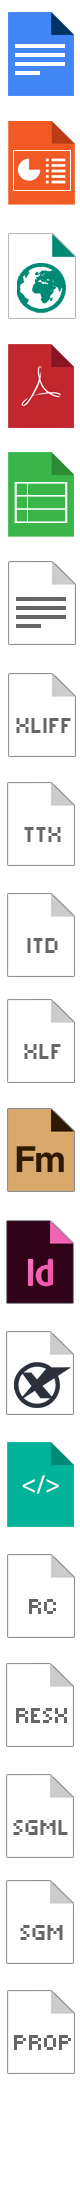
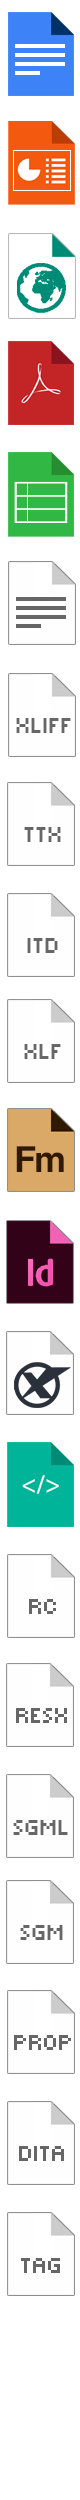
updated css of supported file formats table

diff --git a/lib/view/APIDoc.html b/lib/view/APIDoc.html
@@ -686,85 +686,85 @@
                             <table class="tablestats fileformat" width="100%" border="0" cellspacing="0" cellpadding="0">
                         
                                 <thead>
-                                <tr><th>Office</th>
-                                    <th>Web</th>
-                                    <th>Interchange Formats</th>
-                                    <th>Desktop Publishing</th>
-                                    <th>Localization</th>
+                                <tr><th width="40%">Office</th>
+                                    <th width="15%">Web</th>
+                                    <th width="15%">Interchange Formats</th>
+                                    <th width="15%">Desktop Publishing</th>
+                                    <th width="15%">Localization</th>
                                 </tr></thead>
                                 <tbody><tr>
                                     <td>
                                         <ul class="office">
-                                            <li>doc</li>
-                                            <li>dot</li>
-                                            <li>docx</li>
-                                            <li>dotx</li>
-                                            <li>docm</li>
-                                            <li>dotm</li>
-                                            <li>pdf</li>
-                                            <li>xls</li>
-                                            <li>xlt</li>
-                                            <li>xlsm</li>
-                                            <li>xlsx</li>
-                                            <li>xltx</li>
-                                            <li>pot</li>
-                                            <li>pps</li>
-                                            <li>ppt</li>
-                                            <li>potm</li>
-                                            <li>potx</li>
-                                            <li>ppsm</li>
-                                            <li>ppsx</li>
-                                            <li>pptm</li>
-                                            <li>pptx</li>
-                                            <li>odp</li>
-                                            <li>ods</li>
-                                            <li>odt</li>
-                                            <li>sxw</li>
-                                            <li>sxc</li>
-                                            <li>sxi</li>
-                                            <li>txt</li>
-                                            <li>csv</li>
-                                            <li>xml</li>
+                                            <li><span class="extdoc">doc</span></li>
+                                            <li><span class="extdoc">dot</span></li>
+                                            <li><span class="extdoc">docx</span></li>
+                                            <li><span class="extdoc">dotx</span></li>
+                                            <li><span class="extdoc">docm</span></li>
+                                            <li><span class="extdoc">dotm</span></li>
+                                            <li><span class="extdoc">odt</span></li>
+                                            <li><span class="extdoc">sxw</span></li>
+                                            <li><span class="exttxt">txt</span></li>
+                                            <li><span class="extpdf">pdf</span></li>
+                                            <li><span class="extppt">pot</span></li>
+                                            <li><span class="extppt">pps</span></li>
+                                            <li><span class="extppt">ppt</span></li>
+                                            <li><span class="extppt">potm</span></li>
+                                            <li><span class="extppt">potx</span></li>
+                                            <li><span class="extppt">ppsm</span></li>
+                                            <li><span class="extppt">ppsx</span></li>
+                                            <li><span class="extppt">pptm</span></li>
+                                            <li><span class="extppt">pptx</span></li>
+                                            <li><span class="extppt">odp</span></li>
+                                            <li><span class="extppt">sxi</span></li>
+                                            <li><span class="extxls">ods</span></li>
+                                            <li><span class="extxls">sxc</span></li>
+                                            <li><span class="extxls">xls</span></li>
+                                            <li><span class="extxls">xlt</span></li>
+                                            <li><span class="extxls">xlsm</span></li>
+                                            <li><span class="extxls">xlsx</span></li>
+                                            <li><span class="extxls">xltx</span></li>
+                                            <li><span class="extxls">csv</span></li>
+                                            <li><span class="extxml">xml</span></li>
                                         </ul>
                                     </td>
                                     <td>
                                         <ul>
-                                            <li>htm</li>
-                                            <li>html</li>
-                                            <li>xhtml</li>
-                                            <li>xml</li>
+                                            <li><span class="exthtm">htm</span></li>
+                                            <li><span class="exthtm">html</span></li>
+                                            <li><span class="exthtm">xhtml</span></li>
+                                            <li><span class="extxml">xml</span></li>
                                         </ul>
                                     </td>
                                     <td>
                                         <ul>
-                                            <li>xliff</li>
-                                            <li>sdlxliff</li>
-                                            <li>ttx</li>
-                                            <li>itd</li>
-                                            <li>xlf</li>
+                                            <li><span class="extxif">xliff</span></li>
+                                            <li><span class="extxif">sdlxliff</span></li>
+                                            <li><span class="extttx">ttx</span></li>
+                                            <li><span class="extitd">itd</span></li>
+                                            <li><span class="extxlf">xlf</span></li>
                                         </ul>
                                     </td>
                                     <td>
                                         <ul>
-                                            <li>mif</li>
-                                            <li>inx</li>
-                                            <li>idml</li>
-                                            <li>icml</li>
-                                            <li>xtg</li>
-                                            <li>tag</li>
-                                            <li>xml</li>
-                                            <li>dita</li>
+                                            <li><span class="extmif">mif</span></li>
+                                            <li><span class="extidd">inx</span></li>
+                                            <li><span class="extidd">idml</span></li>
+                                            <li><span class="extidd">icml</span></li>
+                                            <li><span class="extqxp">xtg</span></li>
+                                            <li><span class="exttag">tag</span></li>
+                                            <li><span class="extxml">xml</span></li>
+                                            <li><span class="extdit">dita</span></li>
                                         </ul>
                                     </td>
                                     <td>
                                         <ul>
-                                            <li>properties</li>
-                                            <li>rc</li>
-                                            <li>resx</li>
-                                            <li>xml</li>
-                                            <li>dita</li>
-                                            <li>sgml</li>
-                                            <li>sgm</li>
+                                            <li><span class="extpro">properties</span></li>
+                                            <li><span class="extrcc">rc</span></li>
+                                            <li><span class="extres">resx</span></li>
+                                            <li><span class="extxml">xml</span></li>
+                                            <li><span class="extdit">dita</span></li>
+                                            <li><span class="extsgl">sgml</span></li>
+                                            <li><span class="extsgm">sgm</span></li>
                                         </ul>
                                     </td>
                                 </tr>

diff --git a/public/css/common.css b/public/css/common.css
@@ -777,25 +777,27 @@ section.currSearchSegment mark.searchMarker
 	
 	
 .extdoc {background: url(../img/matecat_file_icons.png) 6px 0 no-repeat !important;} /* .doc, .dot, . docx, .dotx, .docm, .dotm, .odt, .sxw*/
-.extppt {background: url(../img/matecat_file_icons.png) 6px -36px no-repeat !important;} /* .pot, .pps, .ppt, .potm, .potx, .ppsm, .ppsx, .pptm, .pptx, .odp, .sxi*/
-.exthtm {background: url(../img/matecat_file_icons.png) 6px -72px no-repeat !important;} /* .htm, .html */
-.extpdf {background: url(../img/matecat_file_icons.png) 6px -106px no-repeat !important;} /* .pdf */
+.extppt {background: url(../img/matecat_file_icons.png) 6px -34px no-repeat !important;} /* .pot, .pps, .ppt, .potm, .potx, .ppsm, .ppsx, .pptm, .pptx, .odp, .sxi*/
+.exthtm {background: url(../img/matecat_file_icons.png) 6px -70px no-repeat !important;} /* .htm, .html */
+.extpdf {background: url(../img/matecat_file_icons.png) 6px -104px no-repeat !important;} /* .pdf */
 .extxls {background: url(../img/matecat_file_icons.png) 6px -140px no-repeat !important;} /* .xls, .xlt, .xlsm, .xlsx, .xltx, .ods, .sxc, .csv */
 .exttxt {background: url(../img/matecat_file_icons.png) 6px -172px no-repeat !important;} /* .txt */
 .extxif {background: url(../img/matecat_file_icons.png) 6px -208px no-repeat !important;} /* .xliff */
 .extttx {background: url(../img/matecat_file_icons.png) 6px -242px no-repeat !important;} /* .ttx */
 .extitd {background: url(../img/matecat_file_icons.png) 6px -276px no-repeat !important;} /* .itd */
 .extxlf {background: url(../img/matecat_file_icons.png) 6px -310px no-repeat !important;} /* .xlf */
-.extmif {background: url(../img/matecat_file_icons.png) 6px -344px no-repeat !important;} /* .mif */
-.extidd {background: url(../img/matecat_file_icons.png) 6px -380px no-repeat !important;} /* .idml */
-.extqxp {background: url(../img/matecat_file_icons.png) 6px -414px no-repeat !important;} /* .xtg */
+.extmif {background: url(../img/matecat_file_icons.png) 6px -342px no-repeat !important;} /* .mif */
+.extidd {background: url(../img/matecat_file_icons.png) 6px -378px no-repeat !important;} /* .idml */
+.extqxp {background: url(../img/matecat_file_icons.png) 6px -412px no-repeat !important;} /* .xtg */
 .extxml {background: url(../img/matecat_file_icons.png) 6px -446px no-repeat !important;} /* .xml */
 .extrcc {background: url(../img/matecat_file_icons.png) 6px -484px no-repeat !important;} /* .rc */
-.extres {background: url(../img/matecat_file_icons.png) 6px -518px no-repeat !important;} /* .resx */
+.extres {background: url(../img/matecat_file_icons.png) 6px -516px no-repeat !important;} /* .resx */
 .extsgl {background: url(../img/matecat_file_icons.png) 6px -552px no-repeat !important;} /* .sgml */
-.extsgm {background: url(../img/matecat_file_icons.png) 6px -586px no-repeat !important;}  /* .sgm */
-.extpro {background: url(../img/matecat_file_icons.png) 6px -620px no-repeat !important;} /* .properties */
-	
+.extsgm {background: url(../img/matecat_file_icons.png) 6px -584px no-repeat !important;}  /* .sgm */
+.extpro {background: url(../img/matecat_file_icons.png) 6px -618px no-repeat !important;} /* .properties */
+.extdit {background: url(../img/matecat_file_icons.png) 6px -652px no-repeat !important;} /* .dit */
+.exttag {background: url(../img/matecat_file_icons.png) 6px -686px no-repeat !important;} /* .tag */
+
 #jobMenu span {height: 25px;
 padding: 5px;
 margin: 4px 0 0px 7px;
@@ -815,24 +817,27 @@ only screen and (in-resolution: 2dppx) {
 
 
 .extdoc {background: url(../img/matecat_file_icons2x.png) 6px 0 no-repeat !important;} /* .doc, .dot, . docx, .dotx, .docm, .dotm, .odt, .sxw*/
-.extppt {background: url(../img/matecat_file_icons2x.png) 6px -36px no-repeat !important;} /* .pot, .pps, .ppt, .potm, .potx, .ppsm, .ppsx, .pptm, .pptx, .odp, .sxi*/
-.exthtm {background: url(../img/matecat_file_icons2x.png) 6px -72px no-repeat !important;} /* .htm, .html */
-.extpdf {background: url(../img/matecat_file_icons2x.png) 6px -106px no-repeat !important;} /* .pdf */
-.extxls {background: url(../img/matecat_file_icons2x.png) 6px -140px no-repeat !important;} /* .xls, .xlt, .xlsm, .xlsx, .xltx, .ods, .sxc, .csv */
+.extppt {background: url(../img/matecat_file_icons2x.png) 6px -34px no-repeat !important;} /* .pot, .pps, .ppt, .potm, .potx, .ppsm, .ppsx, .pptm, .pptx, .odp, .sxi*/
+.exthtm {background: url(../img/matecat_file_icons2x.png) 6px -70px no-repeat !important;} /* .htm, .html */
+.extpdf {background: url(../img/matecat_file_icons2x.png) 6px -104px no-repeat !important;} /* .pdf */
+.extxls {background: url(../img/matecat_file_icons2x.png) 6px -138px no-repeat !important;} /* .xls, .xlt, .xlsm, .xlsx, .xltx, .ods, .sxc, .csv */
 .exttxt {background: url(../img/matecat_file_icons2x.png) 6px -172px no-repeat !important;} /* .txt */
 .extxif {background: url(../img/matecat_file_icons2x.png) 6px -208px no-repeat !important;} /* .xliff */
 .extttx {background: url(../img/matecat_file_icons2x.png) 6px -242px no-repeat !important;} /* .ttx */
 .extitd {background: url(../img/matecat_file_icons2x.png) 6px -276px no-repeat !important;} /* .itd */
 .extxlf {background: url(../img/matecat_file_icons2x.png) 6px -310px no-repeat !important;} /* .xlf */
-.extmif {background: url(../img/matecat_file_icons2x.png) 6px -344px no-repeat !important;} /* .mif */
-.extidd {background: url(../img/matecat_file_icons2x.png) 6px -380px no-repeat !important;} /* .idml */
-.extqxp {background: url(../img/matecat_file_icons2x.png) 6px -414px no-repeat !important;} /* .xtg */
+.extmif {background: url(../img/matecat_file_icons2x.png) 6px -342px no-repeat !important;} /* .mif */
+.extidd {background: url(../img/matecat_file_icons2x.png) 6px -378px no-repeat !important;} /* .idml */
+.extqxp {background: url(../img/matecat_file_icons2x.png) 6px -412px no-repeat !important;} /* .xtg */
 .extxml {background: url(../img/matecat_file_icons2x.png) 6px -446px no-repeat !important;} /* .xml */
-.extrcc {background: url(../img/matecat_file_icons2x.png) 6px -484px no-repeat !important;} /* .rc */
-.extres {background: url(../img/matecat_file_icons2x.png) 6px -518px no-repeat !important;} /* .resx */
-.extsgl {background: url(../img/matecat_file_icons2x.png) 6px -552px no-repeat !important;} /* .sgml */
-.extsgm {background: url(../img/matecat_file_icons2x.png) 6px -586px no-repeat !important;}  /* .sgm */
-.extpro {background: url(../img/matecat_file_icons2x.png) 6px -620px no-repeat !important;} /* .properties */
+.extrcc {background: url(../img/matecat_file_icons2x.png) 6px -482px no-repeat !important;} /* .rc */
+.extres {background: url(../img/matecat_file_icons2x.png) 6px -516px no-repeat !important;} /* .resx */
+.extsgl {background: url(../img/matecat_file_icons2x.png) 6px -550px no-repeat !important;} /* .sgml */
+.extsgm {background: url(../img/matecat_file_icons2x.png) 6px -584px no-repeat !important;}  /* .sgm */
+.extpro {background: url(../img/matecat_file_icons2x.png) 6px -618px no-repeat !important;} /* .properties */
+.extdit {background: url(../img/matecat_file_icons2x.png) 6px -652px no-repeat !important;} /* .dit */
+.exttag {background: url(../img/matecat_file_icons2x.png) 6px -686px no-repeat !important;} /* .tag */
+
 body.cattool #jobMenu li a
 {
 	background-size: 25px !important;

diff --git a/public/css/manage.css b/public/css/manage.css
@@ -27,7 +27,7 @@ h3{margin:0px 0 0 0;padding:0;font-size:18px;color:#999999 !important;font-weigh
 .tablestats  tr:hover{background:#f7f8f9}
 .tablestats{border-top:1px solid #ccc;margin-bottom:40px;-moz-box-shadow: 0 1px 2px #ccc;background:#fff}
 .tablestats.continue{margin-bottom:4px !important;}
-.logo{float:left;border:0;background:url(../img/logo.png) 0px 0px no-repeat;width:145px;height:31px; background-size: 130px 26px;}
+.logo{margin-top:6px!important;}
 
 .error-symbol{background:url(../img/red-error-symbol.png) 0 0 no-repeat; position:absolute;margin:42px 0 0 -30px;display:block;width:23px;height:23px;background-size:21px 19px}
 
@@ -650,6 +650,7 @@ body.manage #search-projectname
 padding: 5px 10px;
 border: 1px dashed #ccc;
 font-size: 1em;
+line-height:20px;
 margin: 20px 0;
 color: #666;
         }
@@ -690,13 +691,27 @@ padding-right: 20px;
             -moz-column-count: 2;}
 			
 			.api .fileformat li {
-margin: 8px 0px 3px 2px;
-padding: 1px 5px;
+height:45px;}
+
+.fileformat span {
+padding: 10px 15px 10px 40px;
+margin: 5px 0 0 0;
+width: 30px;
+height:15px;
+float: left;
+background-size: 25px!important;
 }
-.api .fileformat li:nth-child(2n+1) {
+
+.api .tablestats tr:hover {background:none;}
+
+/*.api .fileformat li:nth-child(2n+1) {
 background: #efefef;
-}
-			
+}*/
+ ul.office {
+            -webkit-column-count: 3;
+            column-count: 3;
+            -moz-column-count: 3;
+        }			
 			
         .api table ul.lang-list {
             -webkit-column-count: 5;
@@ -709,9 +724,11 @@ background: #efefef;
 		.api .block:last-child {height: 20px;
 min-height: 20px;}
 
-
+.fileformat th {
+padding-left:15px;
+}
 		
-			.api .tablestats th,.api .tablestats td {text-align:left;width:20%;vertical-align: top;}
+			.api .tablestats th,.api .tablestats td {text-align:left;vertical-align: top;}
 table {table-layout: fixed; width:100%;}
 .api .colsx {float: left;
 position: fixed;
